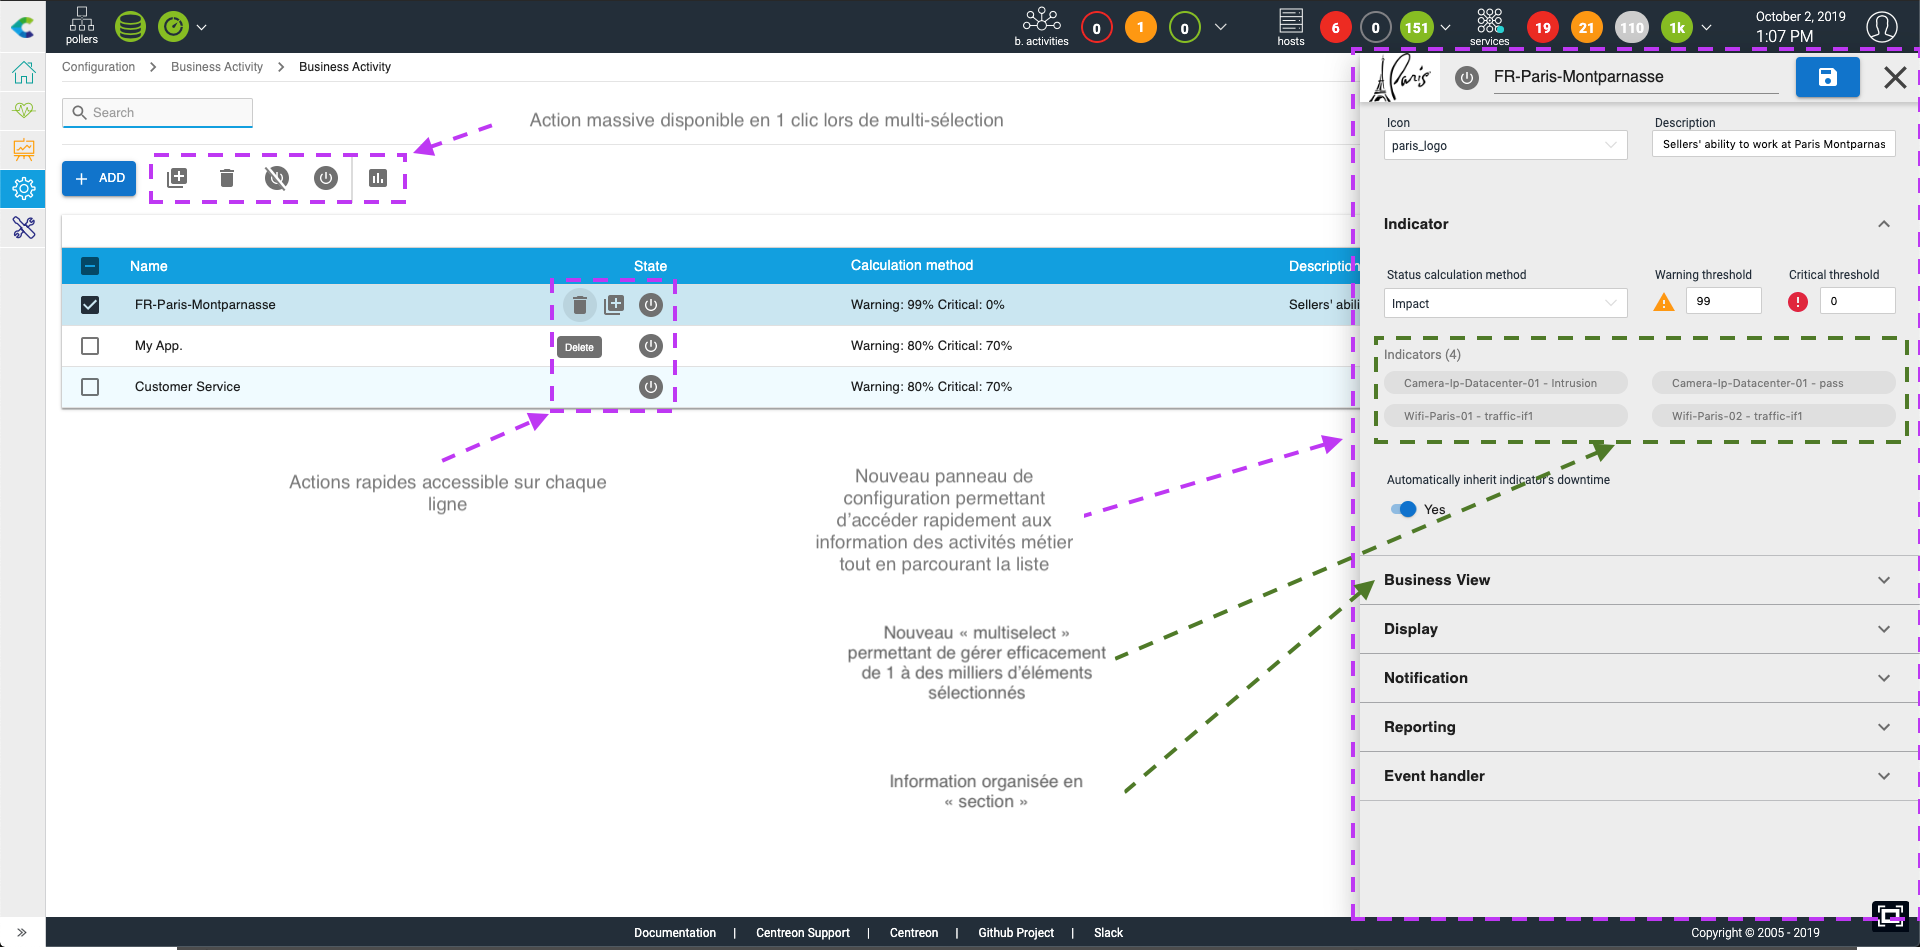
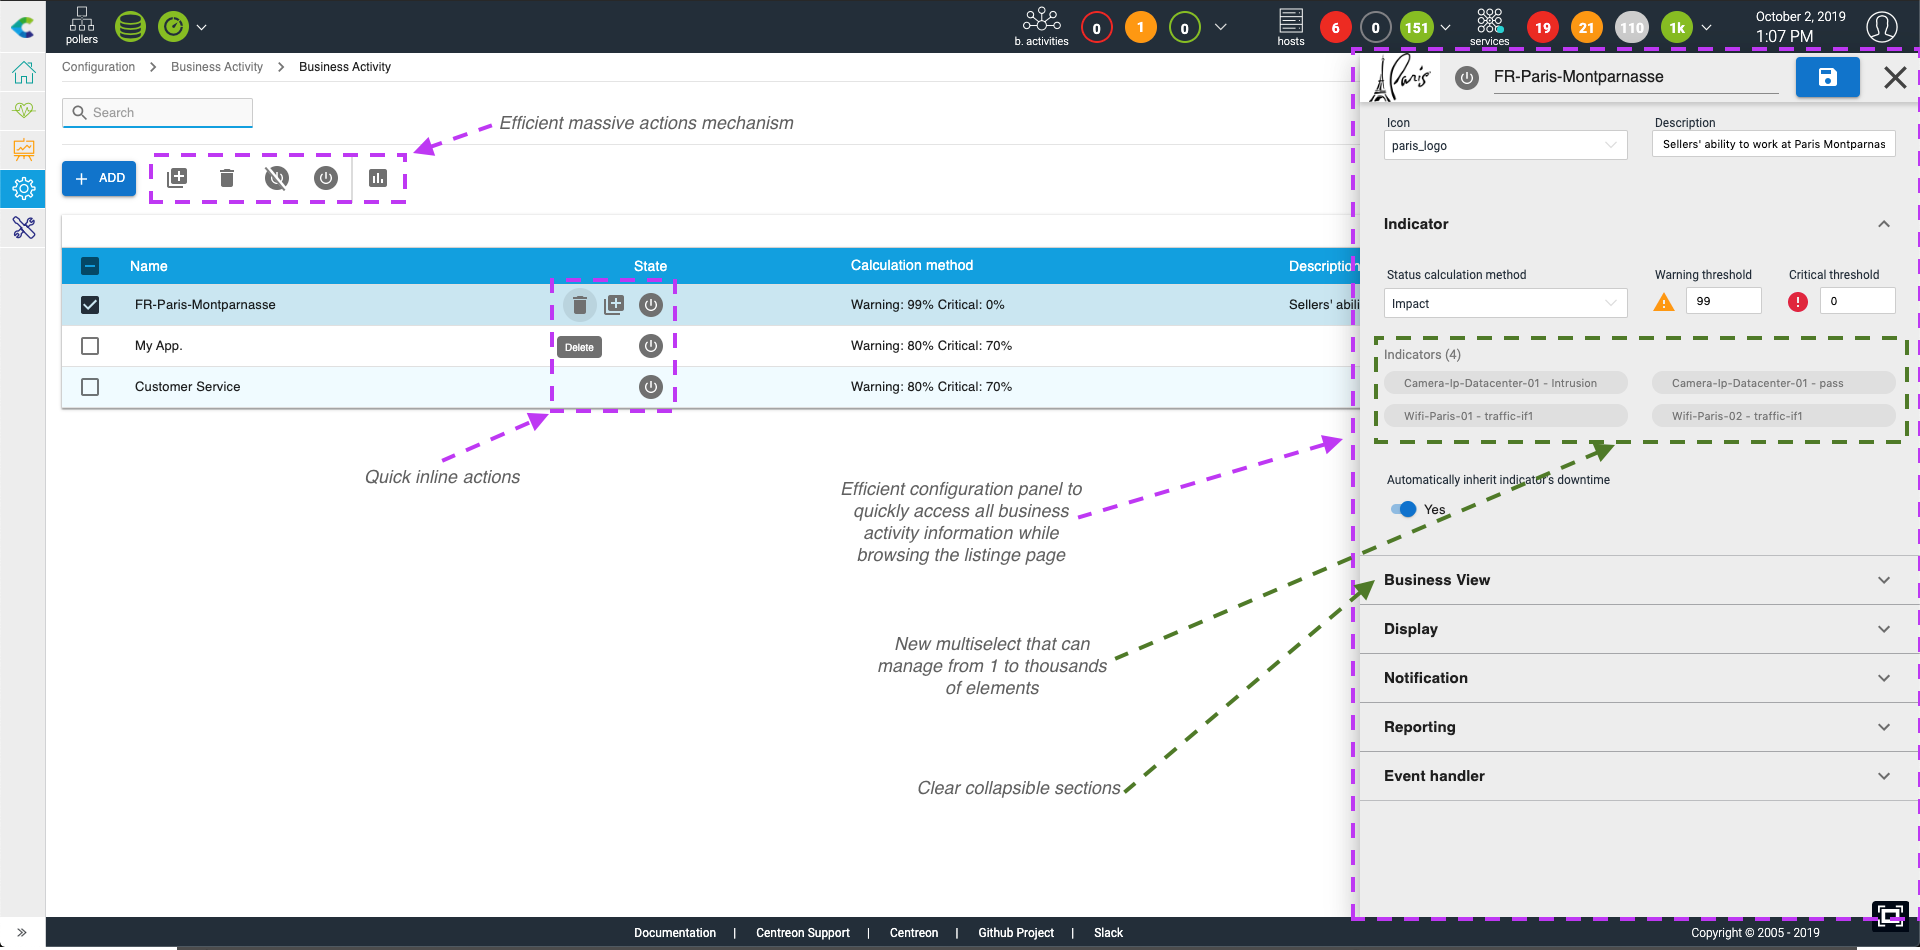
fix images and add fr images

diff --git a/en/getting-started/model-it-services.md b/en/getting-started/model-it-services.md
@@ -31,9 +31,9 @@ rating, you can define the BA's operating levels and the SLA.
 If a BA fails, the malfunction(s) that led to the drop in QoS can be analyzed
 and the SLA failure diagnosed.
 
-Below is an example of a business activity that correspond to a generic Application global status:
+Below is an example of a business activity that correspond to a generic Application:
 
-![image](assets/service-mapping/guide/example.png)
+![image](../assets/service-mapping/example.png)
 
 ## Introduction
 
@@ -97,11 +97,11 @@ Frontend-1 business activity:
 
 <!-- Concept   -->
 
-![image](assets/service-mapping/frontend-1-concept.png)
+![image](../assets/service-mapping/frontend-1-concept.png)
 
 <!-- Configuration -->
 
-![image](assets/service-mapping/guide/frontend-1-conf.png)
+![image](../assets/service-mapping/frontend-1-conf.png)
 
 <!--END_DOCUSAURUS_CODE_TABS-->
 
@@ -113,11 +113,11 @@ so that it tell us wether we've 20% of Frontend servers available or not
 
 <!-- Concept   -->
 
-![image](assets/service-mapping/ratio.png)
+![image](../assets/service-mapping/ratio.png)
 
 <!-- Configuration -->
 
-![image](assets/service-mapping/conf-ratio.png)
+![image](../assets/service-mapping/conf-ratio.png)
 
 <!--END_DOCUSAURUS_CODE_TABS-->
 
